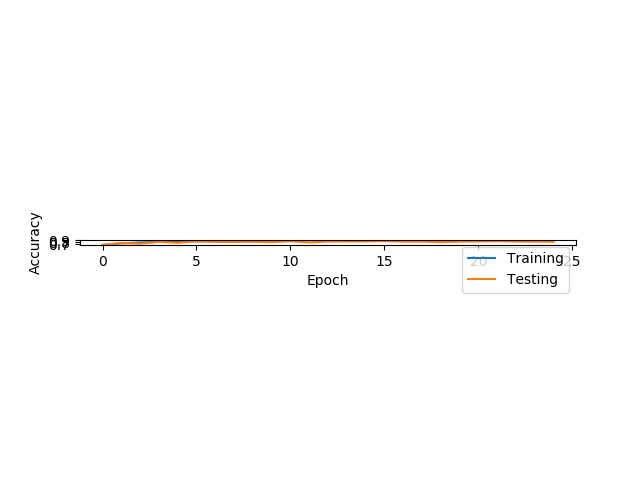
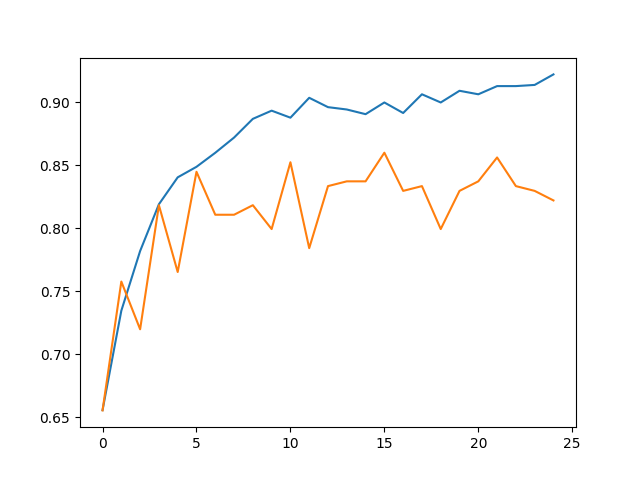
changed the deleted '#' sign from files to make it easier to plot

diff --git a/exampleLoihi/03_IBMGesture/Trained/prune/plot.py b/exampleLoihi/03_IBMGesture/Trained/prune/plot.py
@@ -1,0 +1,10 @@
+import pandas as pd
+import sys
+import matplotlib.pyplot as plt
+filename = sys.argv[1]
+df = pd.read_csv(filename + '.txt', sep='     ', engine='python')
+df.columns = ['Train', 'Test']
+x_val = [i for i in range(df['Train'].size)]
+plt.plot(x_val, df['Train'])
+plt.plot(x_val, df['Test'])
+plt.savefig(filename + '.png')
